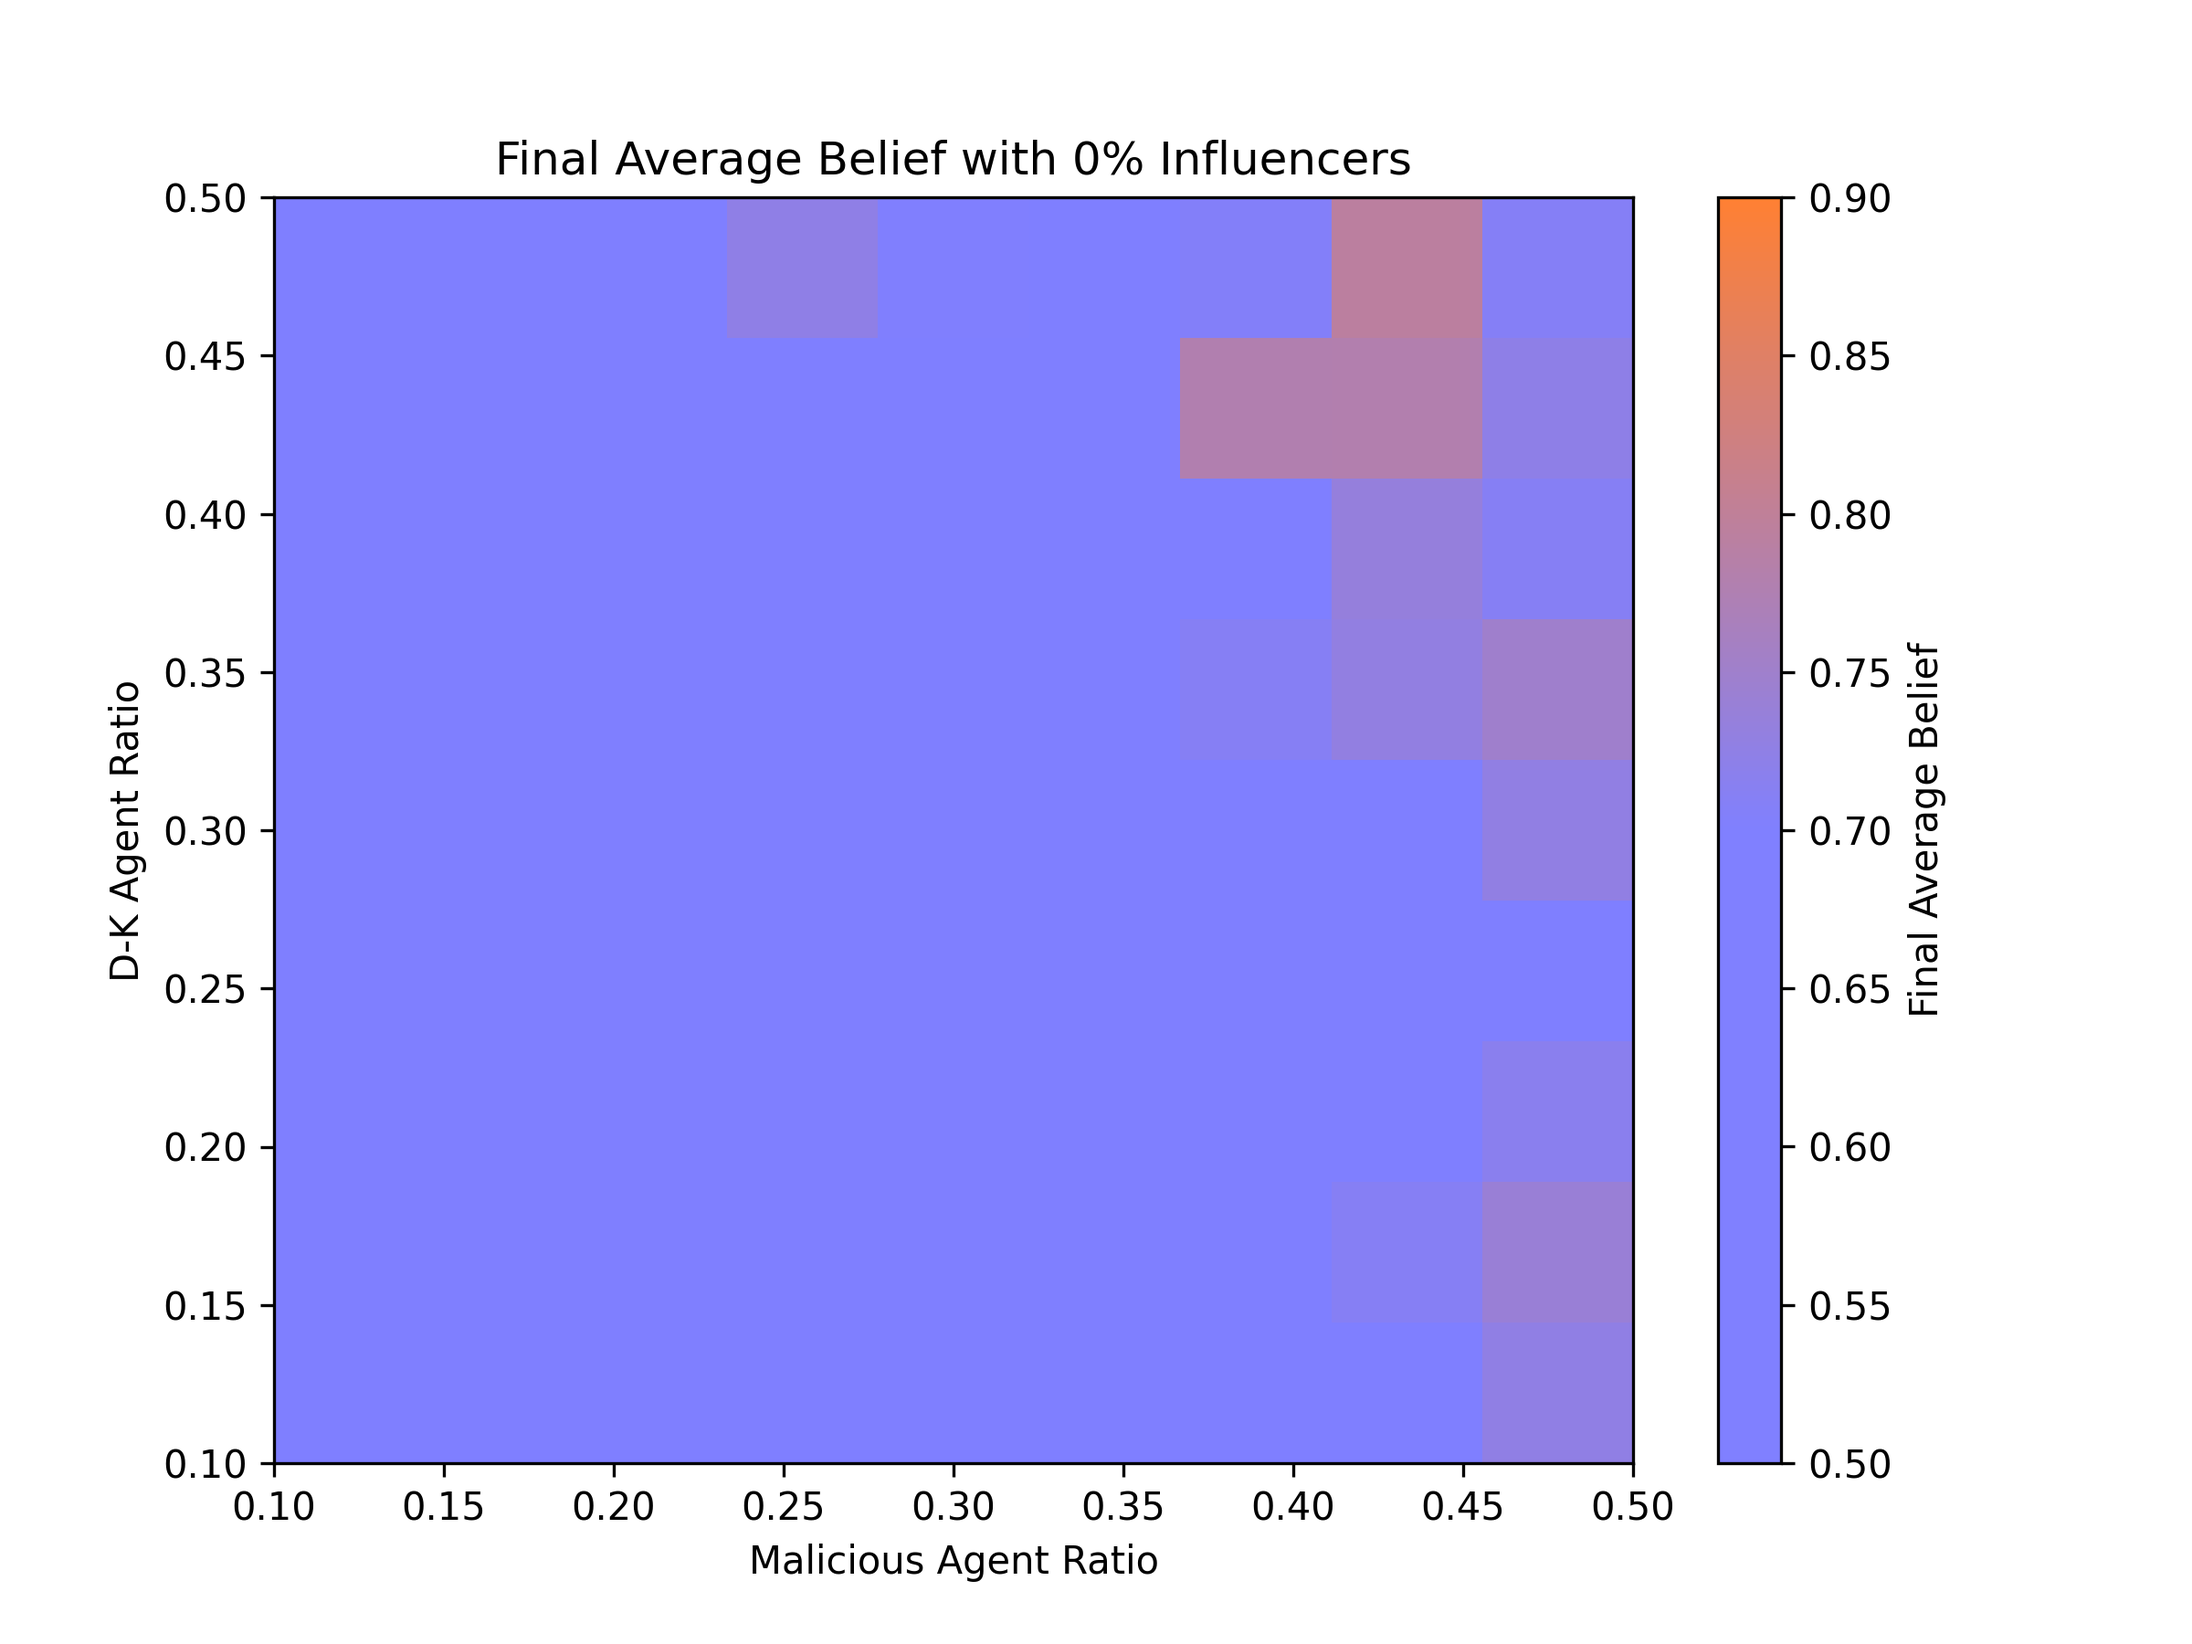
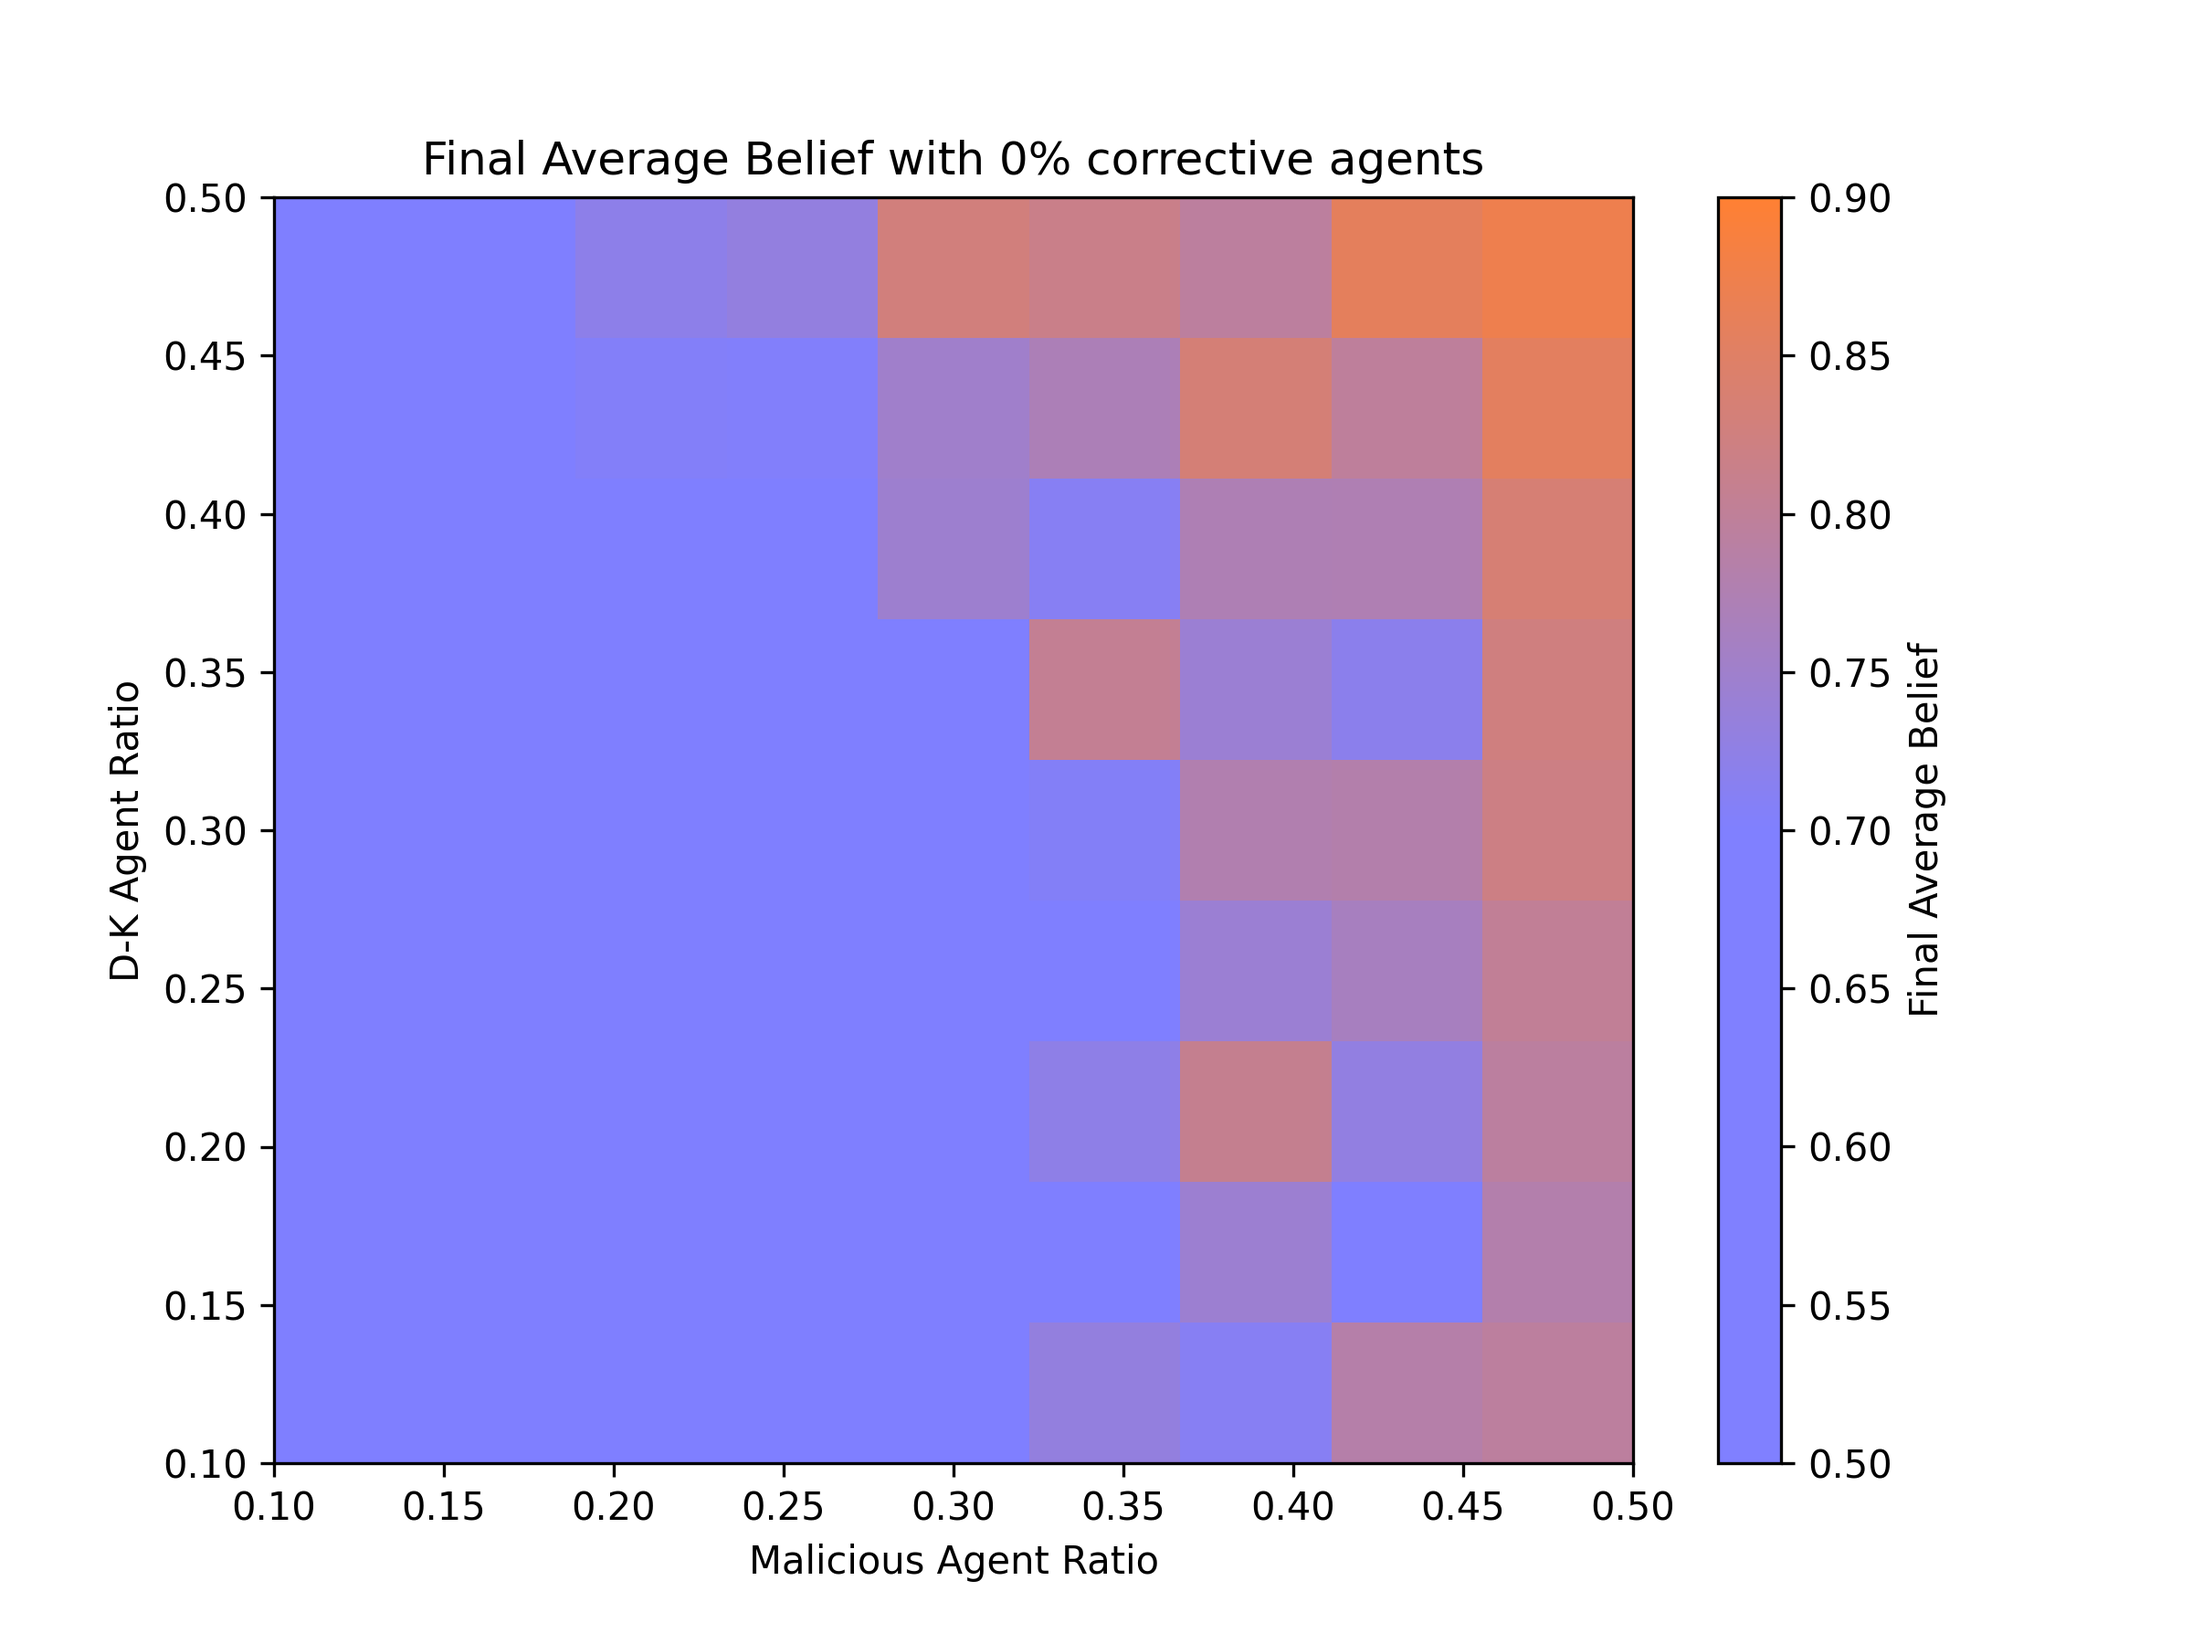
added agent model network representation

Changed region(s): [[0.1875, 0.0933, 0.75, 0.9022]]

diff --git a/mesa_social/script.py b/mesa_social/script.py
@@ -1,13 +1,20 @@
 from model import BeliefModel
 import numpy as np
-
+import networkx as nx
 import matplotlib
 import matplotlib.pyplot as plt
 from matplotlib.colors import LinearSegmentedColormap, Normalize
-
+from matplotlib.patches import Patch
+from matplotlib.cm import ScalarMappable
+from matplotlib.colors import Normalize, LinearSegmentedColormap
 
 N_STEP = 50
+belief_cmap = LinearSegmentedColormap.from_list(
+    "belief_map", [(0, 0.5, 1.0), (1.0, 0.5, 0.2)], N=256
+)
+belief_norm = Normalize(vmin=0.5, vmax=0.9)
 
+    
 def get_heatmap_style():
     # Define custom colormap
     colors = [
@@ -23,20 +30,131 @@ def get_heatmap_style():
     return cmap, norm
 
 
+def grid_to_circle_positions(width, height):
+    """
+    Map (x, y) grid coordinates to a circular surface using polar normalization.
+    """
+    cx, cy = width / 2, height / 2  # center
+    radius = min(width, height) / 2
+    positions = {}
+
+    for y in range(height):
+        for x in range(width):
+            idx = y * width + x
+            dx = x - cx
+            dy = y - cy
+            norm_r = np.sqrt(dx**2 + dy**2) / radius
+            if norm_r > 1:
+                norm_r = 1  # clip to edge of circle
+            angle = np.arctan2(dy, dx)
+            r = norm_r
+            px = r * np.cos(angle)
+            py = r * np.sin(angle)
+            positions[idx] = (px, py)
+
+    return positions
+
+
+def plot_belief_state_from_model(model, step=None):
+    """
+    Plots agent beliefs in a circular layout with color-coded nodes and type labels.
+    Malicious = Red, Influencer = Blue, Normal = Belief-shaded
+    """  
+
+    title="Belief Network"
+    G = nx.Graph()
+    pos = {}
+    node_colors = []
+    node_sizes = []
+    agent_positions = {}
+    width = model.width
+    height = model.height
+
+    for idx, agent in enumerate(model.agents):
+        x = idx % model.width
+        y = idx // model.height
+        pos[idx] = (x, y)
+        agent_positions[(x, y)] = idx
+
+        G.add_node(idx)
+
+        node_sizes.append(200)
+
+        if agent.type == "malicious":
+            node_colors.append("red")
+        elif agent.type == "influencer":
+            node_colors.append("blue")
+        else:
+            node_colors.append(belief_cmap(belief_norm(agent.belief)))
+
+    fig, ax = plt.subplots(figsize=(8, 8))
+    # plt.subplots_adjust(right=0.4, top=0.85, bottom=0.4)    
+    
+    # Add edges for grid neighbors (4-neighborhood)
+    for (x, y), idx in agent_positions.items():
+        for dx, dy in [(-1, 0), (1, 0), (0, -1), (0, 1)]:
+            nx_, ny_ = x + dx, y + dy
+            if 0 <= nx_ < width and 0 <= ny_ < height:
+                neighbor_idx = agent_positions.get((nx_, ny_))
+                if neighbor_idx is not None:
+                    G.add_edge(idx, neighbor_idx)
+
+    # Draw network and grid edges
+    nx.draw(G, pos, node_color=node_colors, node_size=node_sizes, ax=ax, edge_color="gray", linewidths=0.5)
+
+    # Legend
+    legend_elements = [
+        Patch(facecolor='red', edgecolor='k', label='Malicious'),
+        Patch(facecolor='blue', edgecolor='k', label='Corrective'),
+        # Patch(facecolor='lightgray', edgecolor='k', label='Normal (belief color)')
+    ]
+
+    ax.legend(
+        handles=legend_elements,
+        loc='upper left',
+        bbox_to_anchor=[1.02, 0.98],
+        fontsize=11,
+        title='Agent Types',
+        title_fontsize=12,
+        frameon = True
+    )
+
+    # Colorbar for belief values
+    sm = ScalarMappable(cmap=belief_cmap, norm=belief_norm)
+    sm.set_array([])
+    cbar = fig.colorbar(sm, ax=ax, orientation='horizontal', pad=0.02, shrink=0.9, aspect=35)
+    cbar.ax.tick_params(labelsize=11)
+    cbar.set_label("Normal / DK Agents (Belief)", fontsize=12)
+
+    # Layout and title
+    # ax.set_title(f"{title} (Step {step})" if step is not None else title, fontsize=14)
+    ax.set_title(f"{title}", fontsize=14)    
+    plt.tight_layout()
+    
+    filename = "belief_graph_fixed_step_" + str(step) + ".png"
+    plt.savefig(filename, dpi=300)
+    print("Plot saved to " + filename)
+    # plt.show()
+
+
 def run_once():
     model = BeliefModel(
         width=10,
         height=10,
-        dk_ratio=0.4,
-        malicious_ratio=0.4,
+        dk_ratio=0.2,
+        malicious_ratio=0.2,
         influencer_ratio=0.1,
-        influence_rate=0.1,
-        learning_rate=0.05
+        # influence_rate=0.1,
+        # learning_rate=0.05
     )
+    
+    plot_belief_state_from_model(model, step=0)
 
     for _ in range(500):
-        model.step()
+        model.step()    
 
+    plot_belief_state_from_model(model, step=500)
+     
     # Plot results
     plt.figure(figsize=(10, 5))
     plt.plot(model.data_belief, label="Average Belief")
@@ -46,7 +164,11 @@ def run_once():
     plt.ylabel("Average Belief")
     plt.legend()
     plt.grid(True)
-    plt.show()
+    # plt.show()
+    
+    filename = "belief_plot_fixed.png"
+    plt.savefig(filename, dpi=300)
+    print("Plot saved to " + filename)
     
     
 def run_multi():
@@ -60,7 +182,13 @@ def run_multi():
     # colors = ['blue', 'green', 'orange', 'purple', 'brown', 'gray', 'cyan', 'magenta', 'black']
     
     # colors = ['blue', 'blue', 'blue', 'orange', 'orange', 'orange', 'red', 'red', 'red']
-    colors = ['blue', 'orange', 'red', 'blue', 'orange', 'red', 'blue', 'orange', 'red']
+    # colors = ['blue', 'orange', 'red', 'blue', 'orange', 'red', 'blue', 'orange', 'red']
+    
+    colors = [
+        '#aec7e8', '#ffbb78', '#ff9999',  # Light blue/orange/red for DK 0.1
+        '#1f77b4', '#ff7f0e', '#d62728',  # Medium (default) shades for DK 0.3
+        '#084594', '#e6550d', '#99000d'   # Dark blue/orange/red for DK 0.5
+    ]
 
     plt.figure(figsize=(12, 6))
 
@@ -72,14 +200,15 @@ def run_multi():
                 influencer_ratio=infl_value
             )
 
-            for _ in range(N_STEP):
+            for _ in range(N_STEP*4):
                 model.step()
 
             label = f"DK: {dk:.1f}, Mal: {mal:.1f}"
             color = colors[i * len(malicious_values) + j]
             plt.plot(model.data_belief, label=label, color=color)
 
-    plt.axhline(y=0.75, color='red', linestyle='--', label="Tipping Threshold")
+    # plt.axhline(y=0.75, color='red', linestyle='--', label="Tipping Threshold")
+    plt.axhline(y=0.75, color='red', linestyle='--')
     plt.title("Belief Evolution for Multiple DK and Malicious Ratios")
     plt.xlabel("Step")
     plt.ylabel("Average Belief")
@@ -97,7 +226,7 @@ def run_heatmap_fixed_infl():
     dk_values = np.linspace(0.1, 0.5, 9)
     mal_values = np.linspace(0.1, 0.5, 9)
     heatmap = np.zeros((len(dk_values), len(mal_values)))
-    infl_value = 0.0
+    infl_value = 0.1
 
     for i, dk in enumerate(dk_values):
         for j, mal in enumerate(mal_values):
@@ -117,7 +246,7 @@ def run_heatmap_fixed_infl():
     plt.colorbar(label="Final Average Belief")
     plt.xlabel("Malicious Agent Ratio")
     plt.ylabel("D-K Agent Ratio")
-    plt.title("Final Average Belief with " + str(int(infl_value * 100)) + "% Influencers")
+    plt.title("Final Average Belief with " + str(int(infl_value * 100)) + "% corrective agents")
     plt.grid(False)
     # plt.show()
     
@@ -149,7 +278,7 @@ def run_heatmap_fixed_mal():
     plt.imshow(heatmap, origin="lower", cmap=cmap, norm=norm, extent=[0.1, 0.5, 0.1, 0.5], aspect='auto')
     
     plt.colorbar(label="Final Average Belief")
-    plt.xlabel("Influencer Agent Ratio")
+    plt.xlabel("Corrective Agent Ratio")
     plt.ylabel("D-K Agent Ratio")
     plt.title("Final Average Belief with " + str(int(mal_value * 100)) + "% Malicious")
     plt.grid(False)
@@ -183,7 +312,7 @@ def run_surface():
     fig = plt.figure(figsize=(10, 6))
     ax = fig.add_subplot(111, projection='3d')
     ax.plot_surface(DK, MAL, Z, cmap='viridis', edgecolor='k', linewidth=0.5)
-    ax.set_title("Final Average Belief with 10% Influencers")
+    ax.set_title("Final Average Belief with 10% corrective agents")
     ax.set_xlabel("D-K Agent Ratio")
     ax.set_ylabel("Malicious Agent Ratio")
     ax.set_zlabel("Final Average Belief")
@@ -192,7 +321,7 @@ def run_surface():
     print("Plot saved to belief_surface.png")
     
 # run_once()
-# run_multi()
-run_heatmap_fixed_infl()
+run_multi()
+# run_heatmap_fixed_infl()
 # run_heatmap_fixed_mal()
 # run_surface()

diff --git a/mesa_social/case_study/script.py b/mesa_social/case_study/script.py
@@ -13,19 +13,26 @@ price_df['Dan Change'] = price_df['Nicușor Dan'].diff()
 # Filter for May 2025
 price_may = price_df[(price_df['date'] >= '2025-04-15') & (price_df['date'] <= '2025-05-31')]
 events_may = events_df[(events_df['date'] >= '2025-04-15') & (events_df['date'] <= '2025-05-31')]
-
+polls_may = poll_df[(poll_df['date'] >= '2025-04-15') & (poll_df['date'] <= '2025-05-31')]
 
 # Merge polling with price data (optional for deeper analysis)
-merged_df = pd.merge(price_df, poll_df, on='date', how='left')
+# merged_df = pd.merge(price_df, poll_df, on='date', how='left')
 
 # Plot static overlay chart with numbered events
 plt.figure(figsize=(14, 6))
 # plt.plot(price_df['date'], price_df['George Simion'], label='George Simion', linewidth=4)
 # plt.plot(price_df['date'], price_df['Nicușor Dan'], label='Nicușor Dan', linewidth=4)
 
-plt.plot(price_may['date'], price_may['Nicușor Dan'], label='Nicușor Dan', color='blue', linewidth=2)
-plt.plot(price_may['date'], price_may['George Simion'], label='George Simion', color='orange', linewidth=2)
+plt.plot(price_may['date'], price_may['Nicușor Dan'], label='Dan', color='blue', linewidth=2)
+plt.plot(price_may['date'], price_may['George Simion'], label='Simion', color='orange', linewidth=2)
+# plt.stem(polls_may['date'], polls_may['Dan']/100, label='Dan', markerfmt='blue')
+# plt.stem(polls_may['date'], polls_may['Simion']/100, label='Simion', markerfmt='orange')
 
+# plt.plot(polls_may['date'], polls_may['Dan']/100, label='Dan', color='blue', linewidth=4)
+# plt.plot(polls_may['date'], polls_may['Simion']/100, label='Simion', color='orange', linewidth=4)
+
+# plt.scatter(polls_may['date'], polls_may['Dan']/100, label='Dan', color='blue', linewidth=4)
+# plt.scatter(polls_may['date'], polls_may['Simion']/100, label='Simion', color='orange', linewidth=4)
 
 # Number the events and annotate with numbers only
 event_labels = []
@@ -37,7 +44,7 @@ for idx, row in events_df.iterrows():
     }.get(row['type'], 'gray')
     
     plt.axvline(x=row['date'], color=color, linestyle='--', alpha=0.6)
-    plt.text(row['date'], 0.55, str(row["event_number"]), rotation=90, fontsize=12, color=color, verticalalignment='center')
+    plt.text(row['date'], 0.8, str(row["event_number"]), rotation=90, fontsize=12, color=color, verticalalignment='center')
 
 # plt.xticks(price_may['date'], price_may['date'].dt.strftime('%Y-%m-%d'), rotation=90)
 plt.xticks(price_may['date'], price_may['date'].dt.strftime('%m-%d'), rotation=90)
